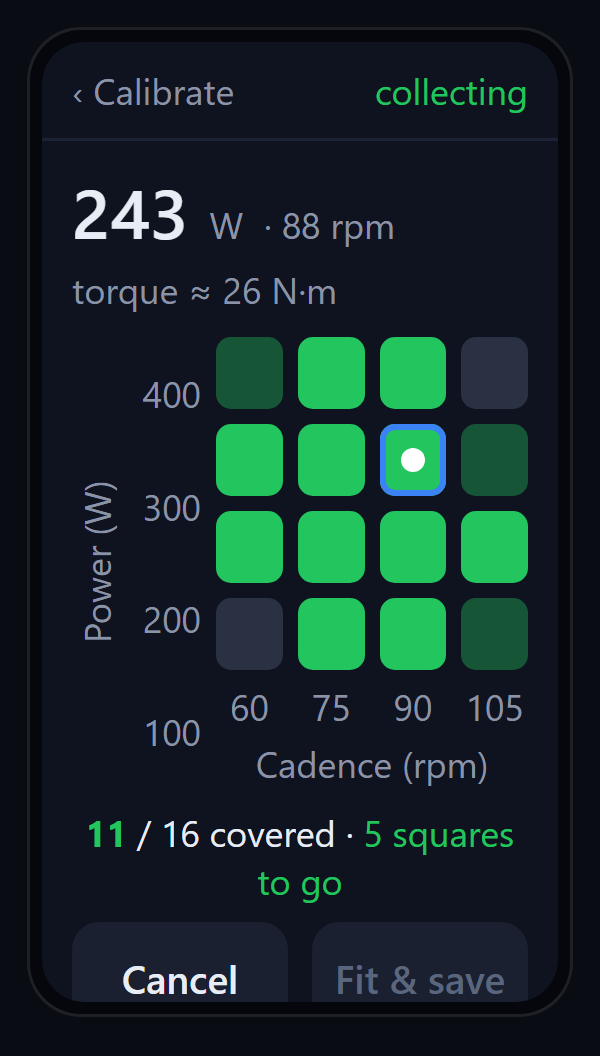
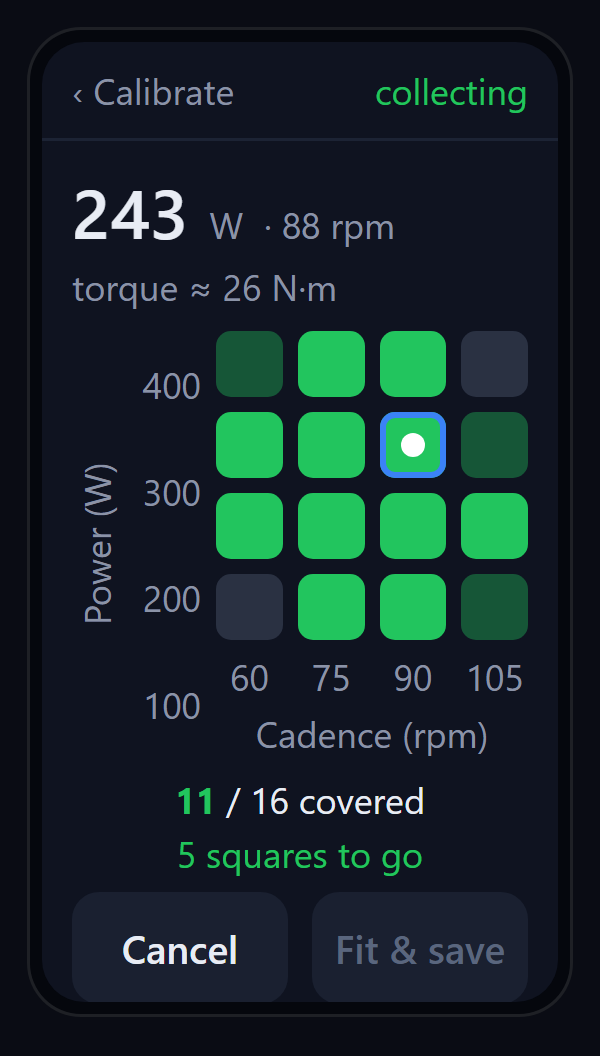
design: Calibrate v3 — break count onto two lines (covered / squares-to-go), reclaim space so buttons fit

diff --git a/design/sb20-lcd-calibrate-v3.html b/design/sb20-lcd-calibrate-v3.html
@@ -12,11 +12,11 @@ body{margin:0;background:#0a0c14;color:var(--fg);font-family:system-ui,-apple-sy
 .dev{box-sizing:border-box;width:182px;margin:0 auto;padding:4px;background:#05070d;border:1px solid rgba(255,255,255,.1);border-radius:18px}
 .scr{width:172px;height:320px;background:var(--bg);color:var(--fg);border-radius:14px;overflow:hidden;display:flex;flex-direction:column}
 .tb{display:flex;align-items:center;justify-content:space-between;padding:8px 10px;font-size:12px;color:var(--mut);border-bottom:1px solid var(--line)}
-.bd{padding:8px 10px;display:flex;flex-direction:column;gap:6px;flex:1;min-height:0}
+.bd{padding:8px 10px;display:flex;flex-direction:column;gap:5px;flex:1;min-height:0}
 .k{font-size:12px;color:var(--mut)}
 .u{font-size:12px;color:var(--mut)}
 .grid{display:grid;grid-template-columns:repeat(4,1fr);gap:5px}
-.gc{height:24px;border-radius:5px;background:var(--chip2)}
+.gc{height:22px;border-radius:5px;background:var(--chip2)}
 .full{background:var(--ok)}
 .part{background:rgba(34,197,94,.38)}
 .now{position:relative;outline:2px solid var(--accent);outline-offset:-2px}
@@ -55,7 +55,8 @@ body{margin:0;background:#0a0c14;color:var(--fg);font-family:system-ui,-apple-sy
 </div>
 </div>
 
-<div style="text-align:center;font-size:12px;margin-top:1px"><b style="color:var(--ok)">11</b> / 16 covered &middot; <span style="color:var(--ok)">5 squares to go</span></div>
+<div style="text-align:center;font-size:12px;margin-top:1px"><b style="color:var(--ok)">11</b> / 16 covered</div>
+<div style="text-align:center;font-size:12px;color:var(--ok);margin-top:-3px">5 squares to go</div>
 
 <div style="display:flex;gap:8px;margin-top:auto">
 <span class="btn bgr">Cancel</span><span class="btn bdim">Fit &amp; save</span>
